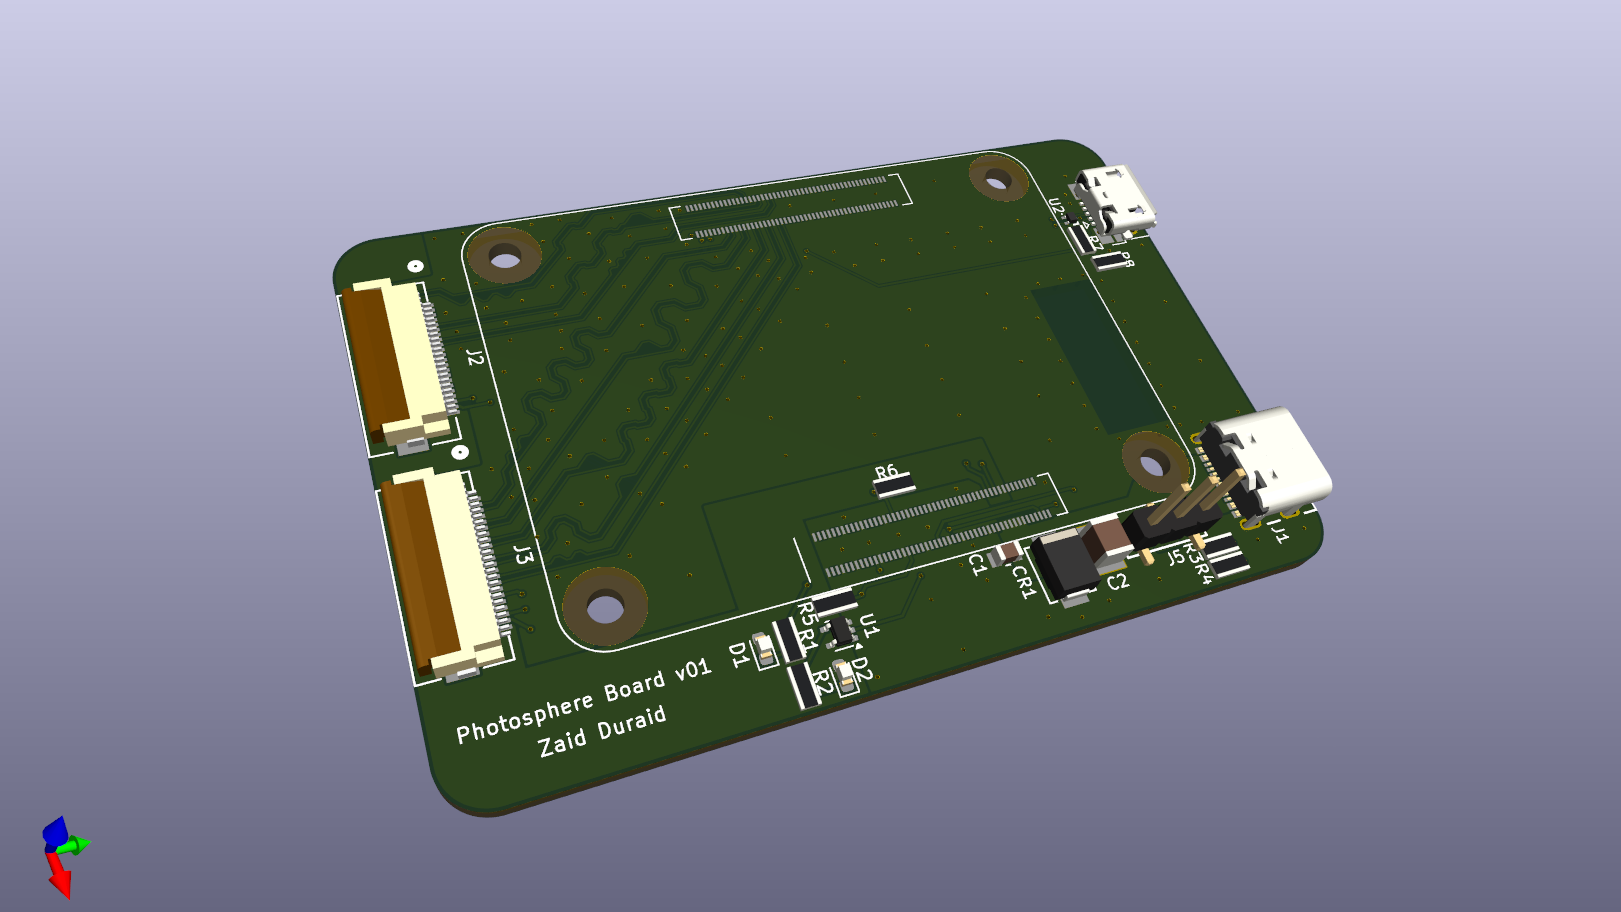
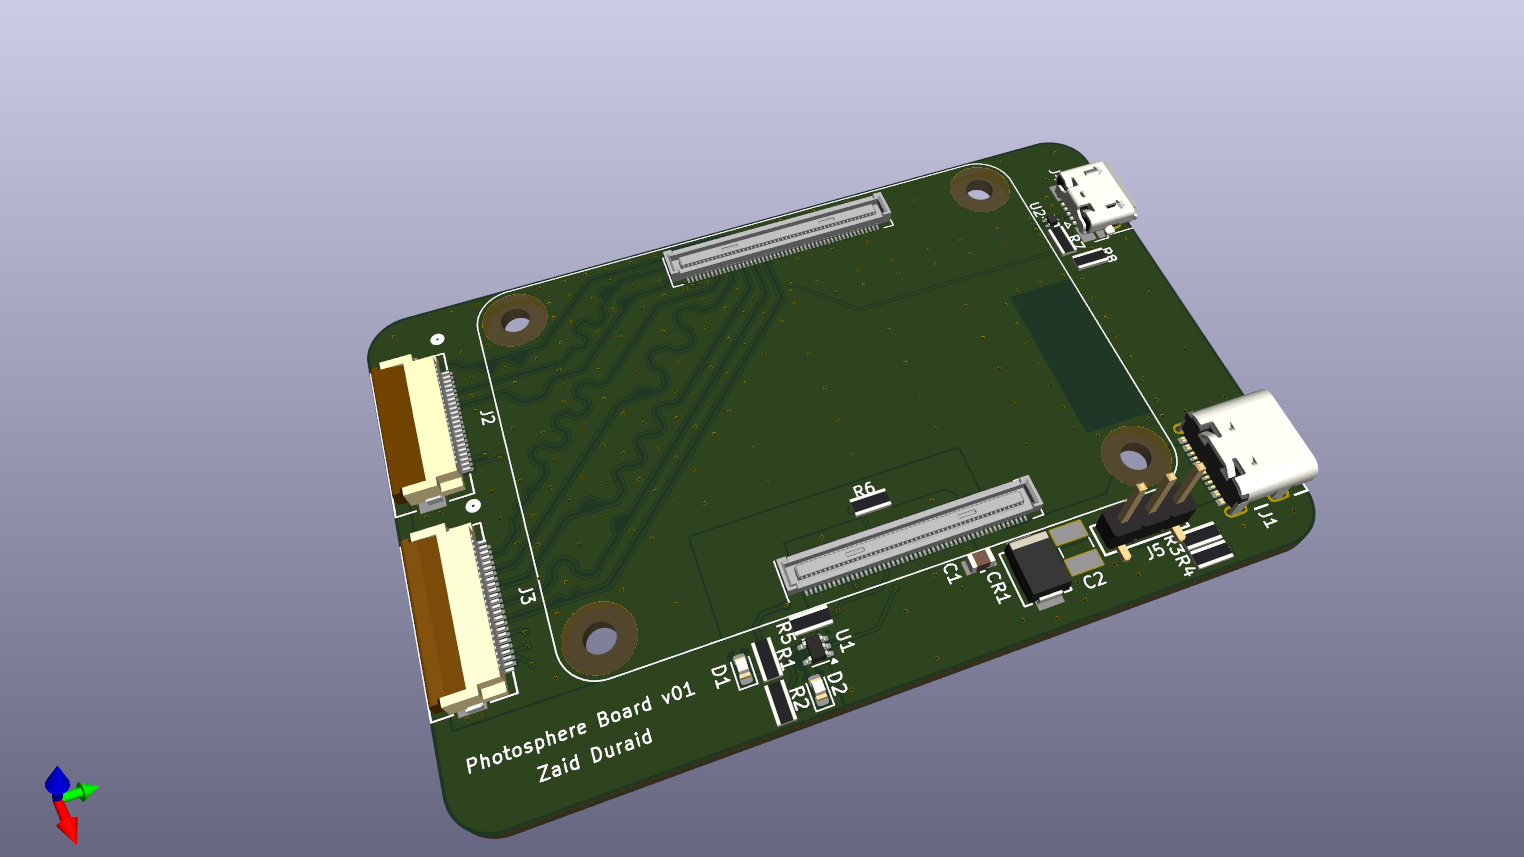
fix: resume and website wording updates

Changed region(s): [[0.185, 0.1517, 0.8635, 1.0], [0.0, 0.9102, 0.0617, 1.0]]

diff --git a/includes/projects/photosphere_pcb.html b/includes/projects/photosphere_pcb.html
@@ -20,16 +20,10 @@
             <p class="text-secondary text-center fs-6 m-2 dynamic_size_text">3D Model</p>
         </div>
         <div class="carousel-item">
-            <img src="public/photosphere_pcb/photosphere_pcb_top_layer_layout.png"
+            <img src="public/photosphere_pcb/photosphere_pcb_layout_and_routing.png"
                 class="d-block w-md-60 mx-auto my-1"
                 alt="Top Layer Routing">
-            <p class="text-secondary text-center fs-6 m-2 dynamic_size_text">Top Layer Routing</p>
-        </div>
-        <div class="carousel-item">
-            <img src="public/photosphere_pcb/photosphere_pcb_bottom_layer_layout.png"
-                class="d-block w-md-60 mx-auto my-1"
-                alt="Bottom Layer Routing">
-                <p class="text-secondary text-center fs-6 m-2 dynamic_size_text">Bottom Layer Routing</p>
+            <p class="text-secondary text-center fs-6 m-2 dynamic_size_text">PCB Layout and Routing (Outer Layers)</p>
         </div>
     </div>
     <button class="carousel-control-prev" type="button" data-bs-target="#photosphereBoardCarousel"

diff --git a/includes/projects/eastern_edge_robotics_2023.html b/includes/projects/eastern_edge_robotics_2023.html
@@ -9,7 +9,7 @@
     As a software member, my contributions included:
 </p>
 <ul class="text-secondary fs-5 lh-lg dynamic_size_text">
-    <li>Developing critical features, including the camera tab and the Pygame joystick listener</li>
+    <li>Developing critical features, including the Pygame joystick listener and PyQT GUI tabs</li>
     <li>Bug fixes and adaptations to backend code</li>
     <li>Being part of the competition deck crew</li>
     <li>Flowcharts and documentation for competition deliverables</li>
@@ -21,5 +21,5 @@
 </div>
 <div class="text-center">
     <img class="img-fluid rounded ms-2 ps-2 w-50" src="public/eastern_edge_robotics/caribou_camera_tab.png" alt="Eastern Edge Robotics 2023 Camera Tab"/>
-    <p class="text-secondary fs-6 mt-2">Eastern Edge Robotics 2023 camera tab</p>
+    <p class="text-secondary fs-6 mt-2">Eastern Edge Robotics 2023 PyQT camera tab</p>
 </div>

diff --git a/includes/projects/eastern_edge_robotics_2024.html b/includes/projects/eastern_edge_robotics_2024.html
@@ -38,7 +38,12 @@ Contents:<br>
     <li>Publishing control commands on the control board's i2c bus or, in the 
         case of the simulation, on Gazebo topics</li>
     <li>Obtaining and publishing imu, voltage, and temperature data to the frontend</li>
-    <li>Storing and loading configuration data and real-time progress during competition runs</li>
+    <li>Using SQLite and SQLAlchemy
+        <ul>
+            <li>Storing and loading custom pilot control profiles and configuration data</li>
+            <li>Storing and loading real-time progress during competition runs</li>
+        </ul>
+    </li>
     <li>Autonomously controlling Beaumont for the "Brain Coral Transplant" 2024 competition task</li>
 </ul>
 

diff --git a/public/resume.tex b/public/resume.tex
@@ -182,8 +182,8 @@
       \resumeItemListStart
         \resumeItem{Developed and documented \textbf{simulation testbenches for FPGA designs in SystemVerilog}, leading to the discovery and resolution of 
                     critical display datapath bugs}
-        \resumeItem{Built new \textbf{internal verification tools using Python} that integrated with existing testbenches and 
-                    used to verify hardware image correction for the holographic display}
+        \resumeItem{Built new \textbf{internal verification tools using Python} that integrated with existing testbenches to
+                    verify hardware image correction for the holographic display}
         \resumeItem{Contributed to \textbf{FPGA RTL code in SystemVerilog}, including adding runtime-accessible register maps (regmaps) for debug and hardware
                     image correction parameter loading}
         \resumeItem{Followed to internal test processes by \textbf{assembling hardware, executing tests, and running TCL scripts} 
